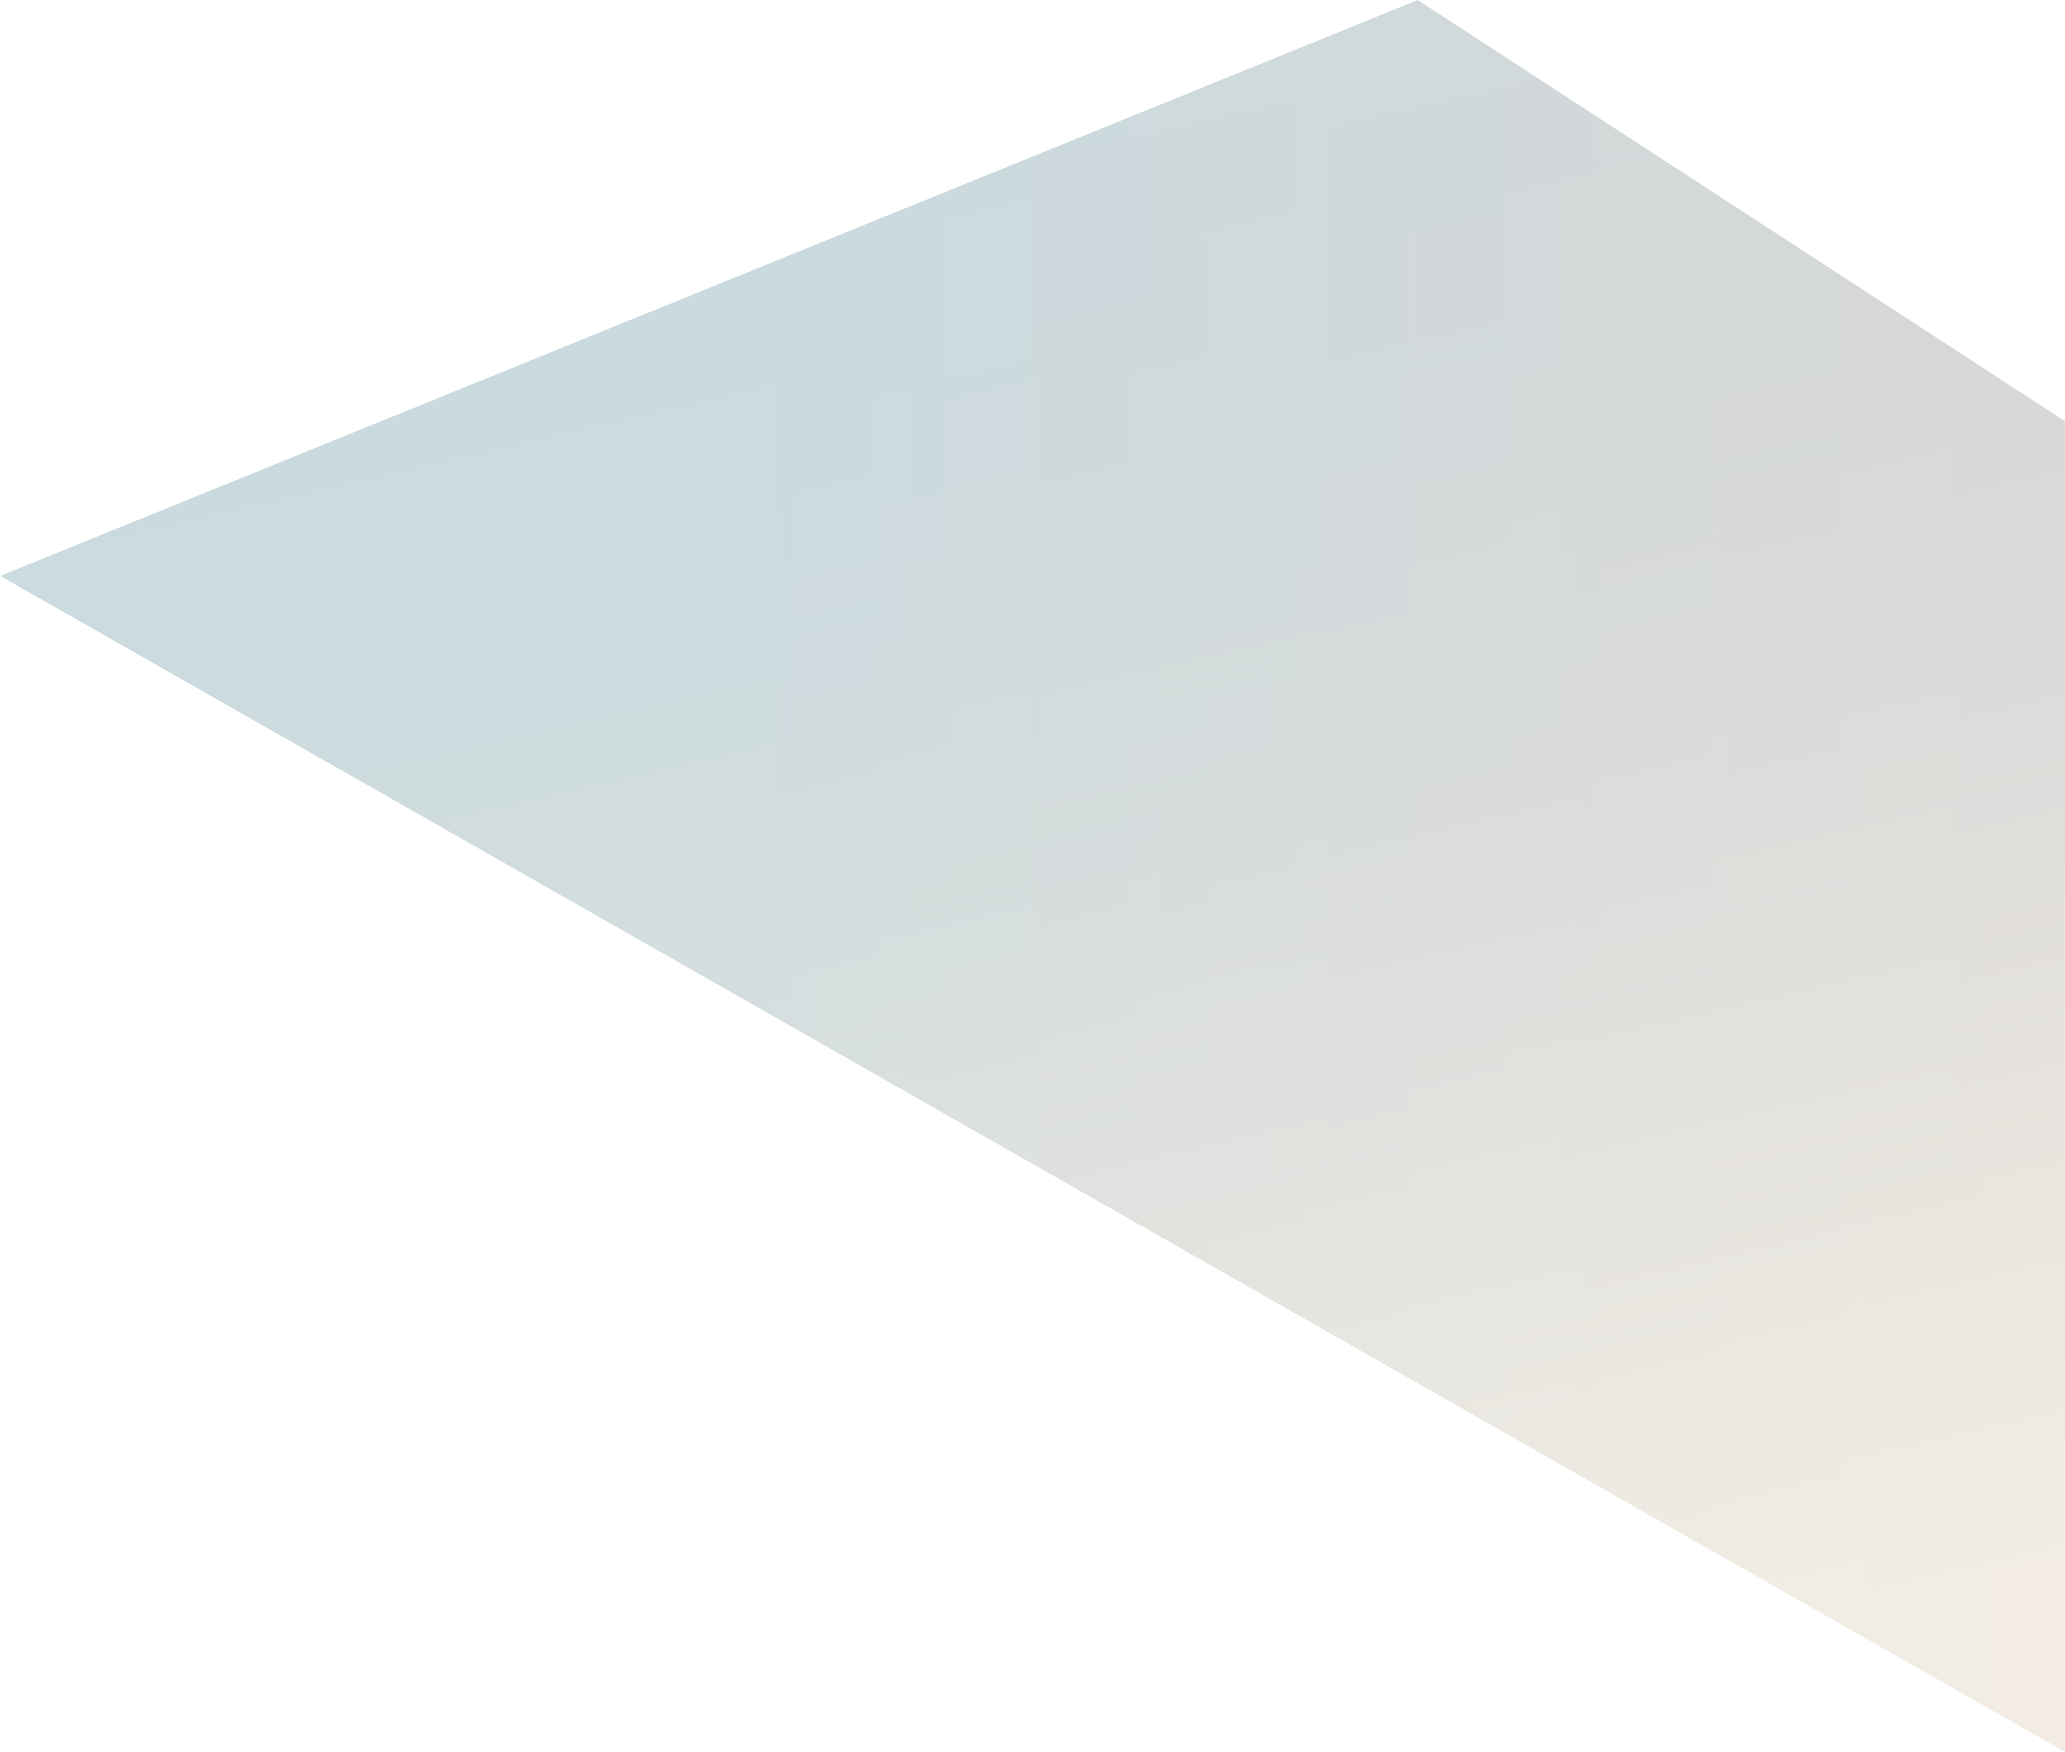
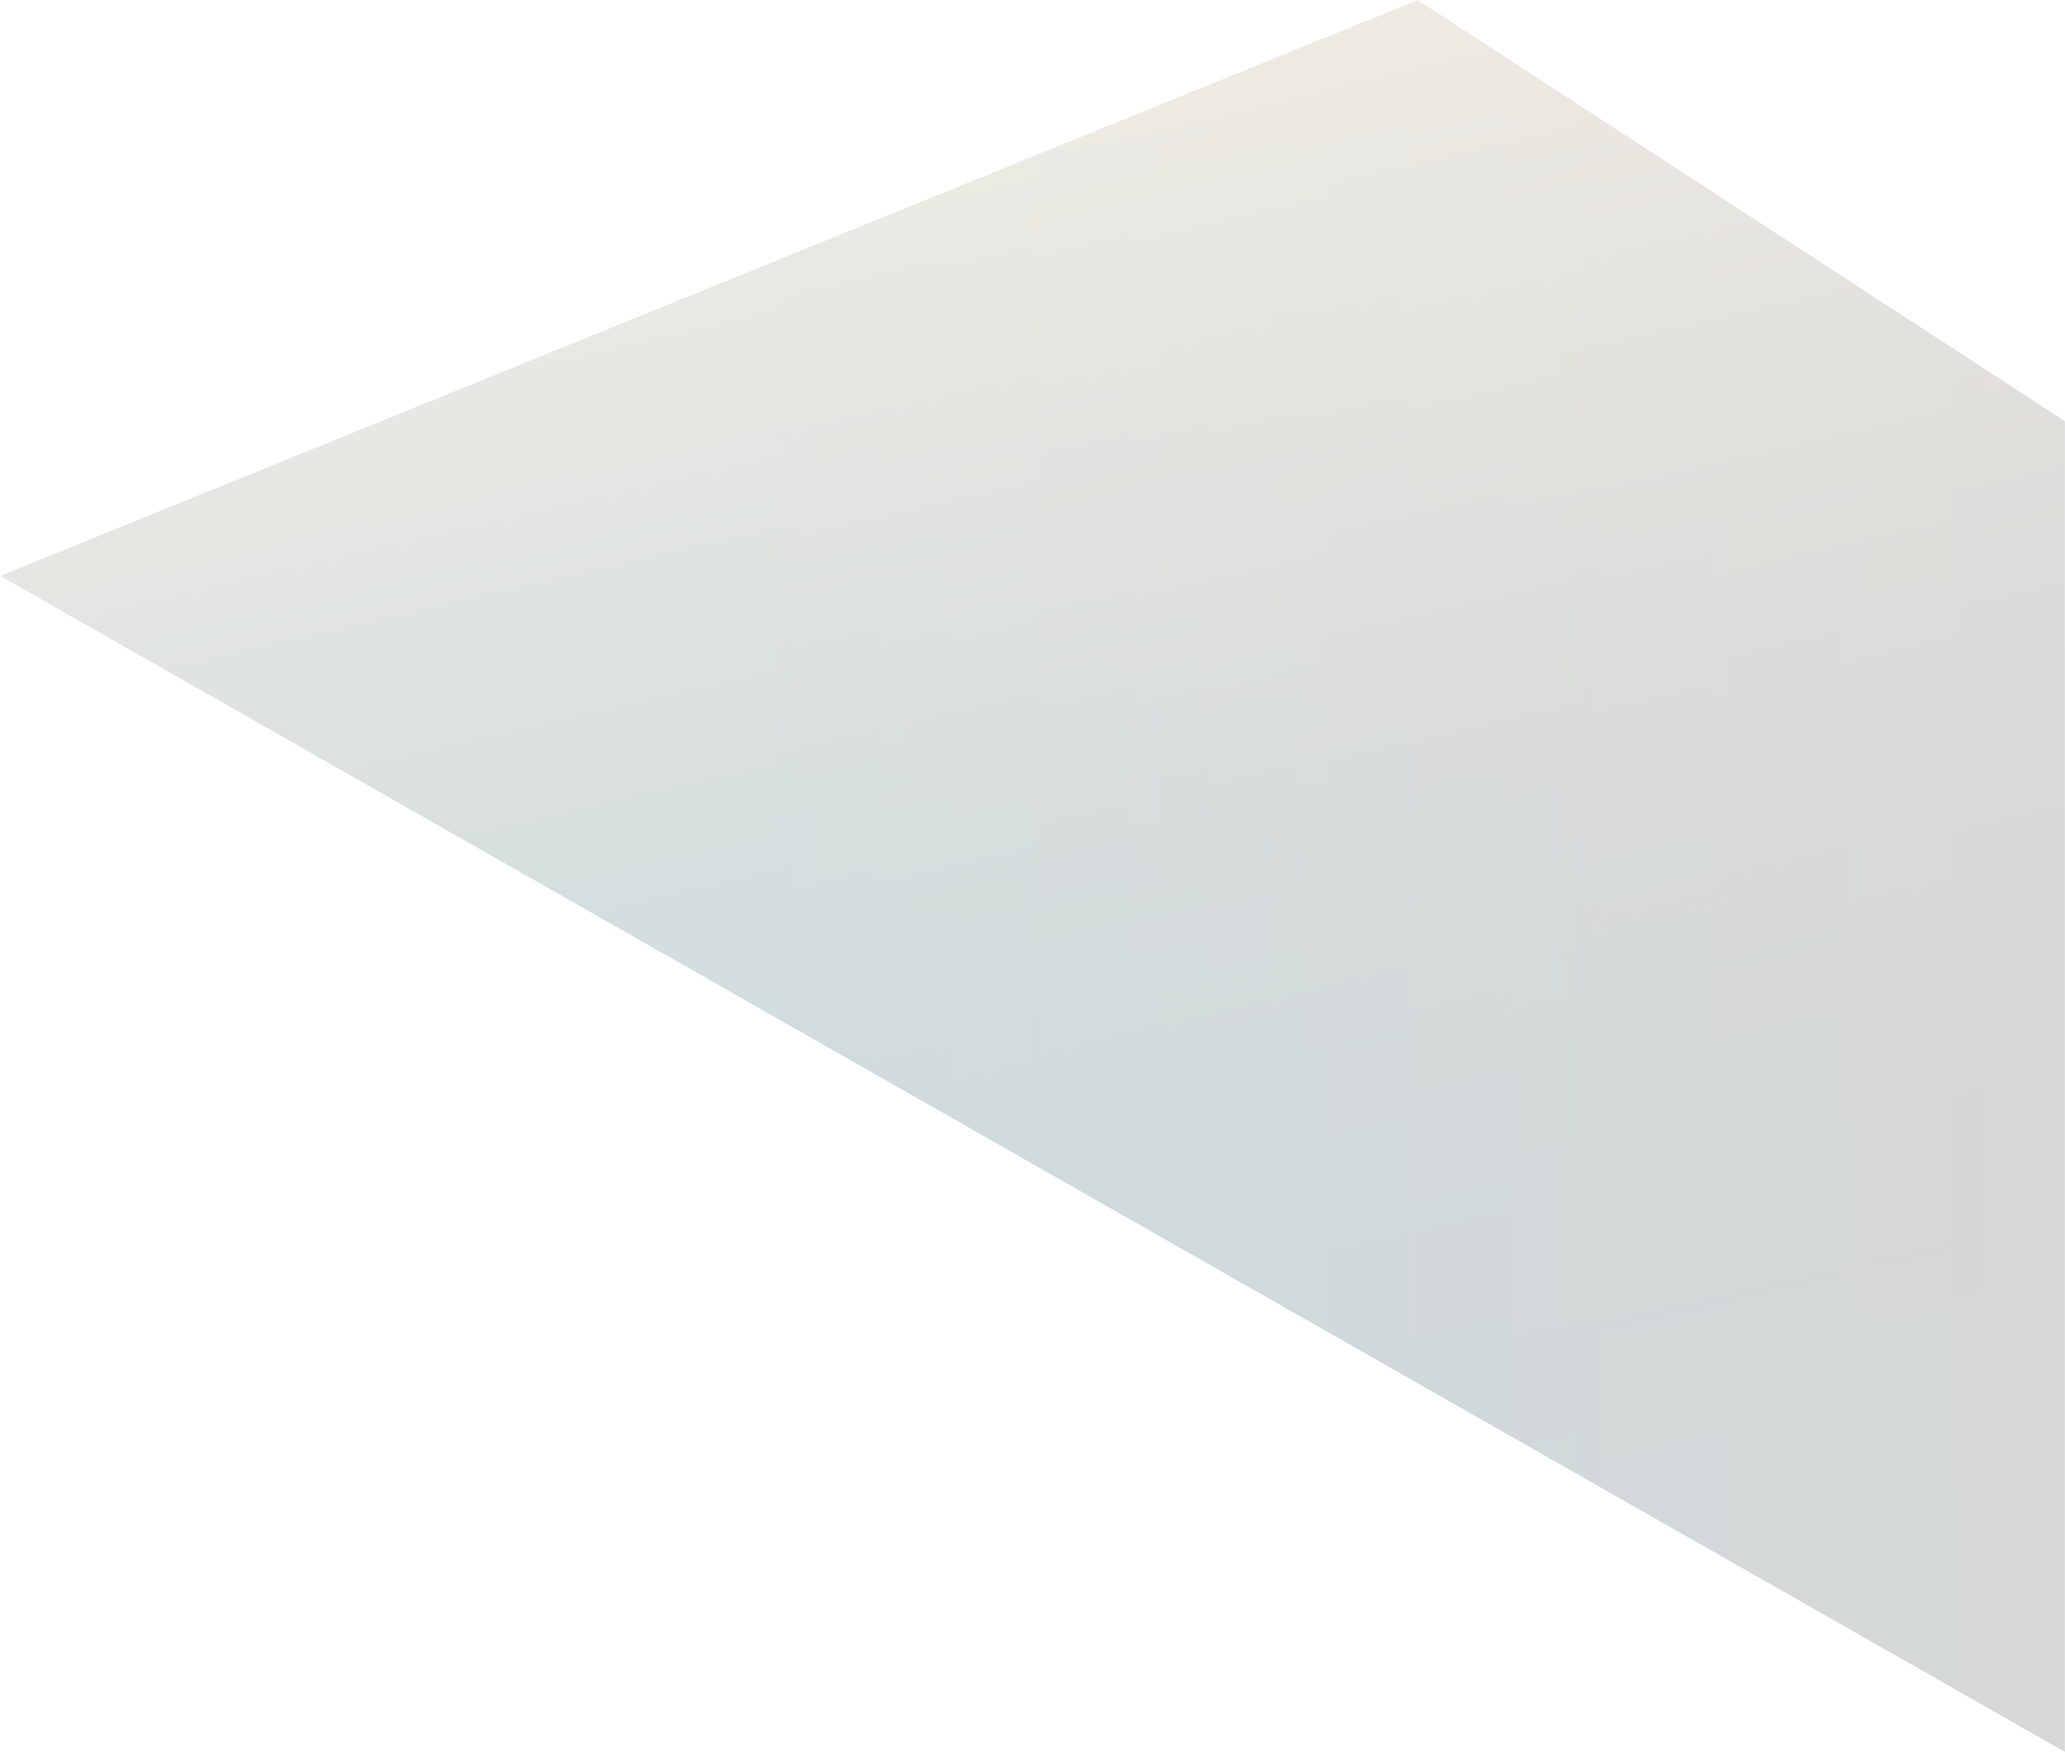
.

Changed region(s): [[0.0, 0.0, 0.7808, 0.3407], [0.7184, 0.7743, 1.0, 1.0]]

diff --git a/wp-content/themes/unionus/page-home.php b/wp-content/themes/unionus/page-home.php
@@ -20,6 +20,11 @@ get_header();
 <img class="bg-shape-3" src="<?php echo get_template_directory_uri(); ?>/assets/images/bg-shape-3.png" alt="">
 <img class="bg-shape-4" src="<?php echo get_template_directory_uri(); ?>/assets/images/bg-shape-4.png" alt="">
 
+<img src="<?php echo get_template_directory_uri(); ?>/assets/images/white-light-bg-1.png" alt="">
+
+<img src="<?php echo get_template_directory_uri(); ?>/assets/images/white-light-bg-1.png" alt="">
+
+<img src="<?php echo get_template_directory_uri(); ?>/assets/images/white-light-bg-1.png" alt="">
 
 <div class="home-banner-div">
 
